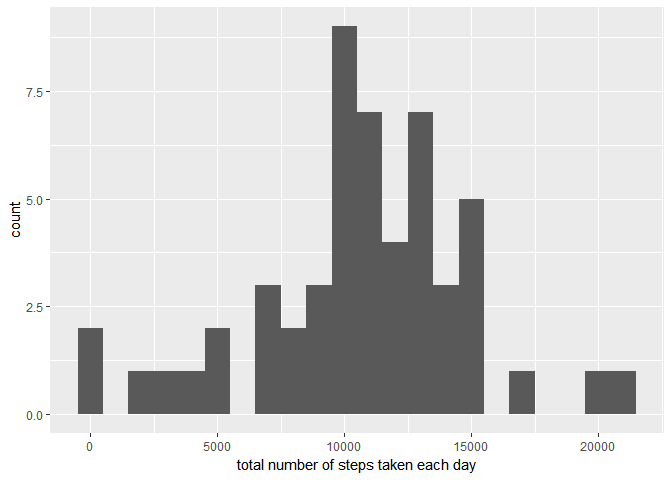
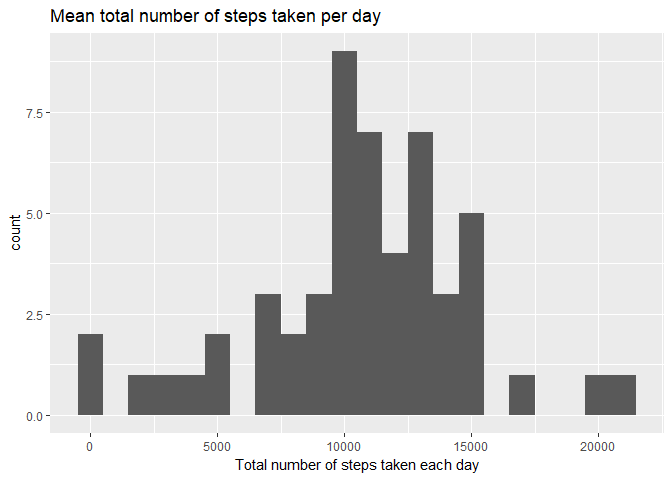
Final version - minor bug fixed...
Final version, with missing ```{R} block...

diff --git a/PA1_template.html b/PA1_template.html
@@ -122,6 +122,8 @@ $(document).ready(function () {
 </div>
 
 
+<div id="michel-racine" class="section level1">
+<h1>Michel Racine</h1>
 <pre class="r"><code>library(&quot;ggplot2&quot;)
 library(dplyr)</code></pre>
 <pre><code>## 
@@ -132,51 +134,79 @@ library(dplyr)</code></pre>
 <pre><code>## The following objects are masked from 'package:base':
 ## 
 ##     intersect, setdiff, setequal, union</code></pre>
-<pre class="r"><code>setwd(&quot;/Users/Michel/Dropbox/Coursera/Data Science - John Hopkin's/Reproducible Research/week2/Course Project 1&quot;)</code></pre>
+<pre class="r"><code>library(lubridate)</code></pre>
+<pre><code>## 
+## Attaching package: 'lubridate'</code></pre>
+<pre><code>## The following object is masked from 'package:base':
+## 
+##     date</code></pre>
+<pre class="r"><code>library(chron)</code></pre>
+<pre><code>## Warning: package 'chron' was built under R version 3.4.4</code></pre>
+<pre><code>## 
+## Attaching package: 'chron'</code></pre>
+<pre><code>## The following objects are masked from 'package:lubridate':
+## 
+##     days, hours, minutes, seconds, years</code></pre>
+<pre class="r"><code>library(lattice)</code></pre>
 <div id="loading-and-preprocessing-the-data" class="section level2">
 <h2>Loading and preprocessing the data</h2>
 <div id="we-want-to-ignore-na-values" class="section level3">
 <h3>We want to ignore NA values</h3>
-<pre class="r"><code>activities &lt;- read.csv(&quot;activity.csv&quot;)
-filtered_activities &lt;- na.omit(activities)</code></pre>
+<pre class="r"><code>data &lt;- read.csv(&quot;activity.csv&quot;)
+filtered_data &lt;- na.omit(data)</code></pre>
 </div>
 </div>
 <div id="what-is-mean-total-number-of-steps-taken-per-day" class="section level2">
 <h2>What is mean total number of steps taken per day?</h2>
-<pre class="r"><code>total_steps_per_day &lt;- aggregate(steps ~ date, activities, sum)
+<pre class="r"><code>total_steps_per_day &lt;- aggregate(steps ~ date, data, sum)
 
 
 mean_steps &lt;- mean(total_steps_per_day$steps)
 median_steps &lt;- median(total_steps_per_day$steps)
 
-qplot(total_steps_per_day$steps, binwidth=1000, xlab=&quot;total number of steps taken each day&quot;)</code></pre>
[1 lines of base64/hex data omitted]
+qplot(total_steps_per_day$steps, binwidth=1000, xlab=&quot;Total number of steps taken each day&quot;, main=&quot;Mean total number of steps taken per day&quot;)</code></pre>
[1 lines of base64/hex data omitted]
 <p>The mean of the of the total number of steps is 10766.<br />
 The median of the of the total number of steps is 10765.</p>
 </div>
 <div id="what-is-the-average-daily-activity-pattern" class="section level2">
 <h2>What is the average daily activity pattern?</h2>
-<pre class="r"><code>average_steps_per_interval &lt;- aggregate(steps ~ interval, activities, mean)
+<pre class="r"><code>steps_per_interval &lt;- aggregate(steps ~ interval, data, mean)
 
 
-plot(average_steps_per_interval$interval, average_steps_per_interval$steps, type=&quot;l&quot;, xlab=&quot;Interval&quot;, 
+plot(steps_per_interval$interval, steps_per_interval$steps, type=&quot;l&quot;, xlab=&quot;Interval&quot;, 
      ylab=&quot;Average number of steps&quot;)</code></pre>
[1 lines of base64/hex data omitted]
-<pre class="r"><code>Max_steps &lt;- max(average_steps_per_interval$steps)
-Max_interval &lt;- average_steps_per_interval[average_steps_per_interval$steps == Max_steps,]$interval</code></pre>
[1 lines of base64/hex data omitted]
+<pre class="r"><code>Max_steps &lt;- max(steps_per_interval$steps)
+Max_interval &lt;- steps_per_interval[steps_per_interval$steps == Max_steps,]$interval</code></pre>
 <p>The interval 835 on average contains the maximum number of steps, which is 206.</p>
 </div>
 <div id="replace-missing-values-by-using-the-mean-for-the-5-minute-interval" class="section level2">
 <h2>Replace missing values by using the mean for the 5-minute interval</h2>
-<div id="we-will-re-use-the-average_steps_per_interval-data-frame" class="section level3">
-<h3>We will re-use the average_steps_per_interval data frame…</h3>
-<pre class="r"><code>missing_values = sum(!complete.cases(activities))
+<div id="we-will-re-use-the-steps_per_interval-data-frame" class="section level3">
+<h3>We will re-use the steps_per_interval data frame…</h3>
+<pre class="r"><code>missing_values = sum(!complete.cases(data))
 
-activities2 &lt;- transform(activities, steps = ifelse(is.na(activities$steps), average_steps_per_interval$steps[match(activities$interval, average_steps_per_interval$interval)], activities$steps))</code></pre>
+data.i &lt;- transform(data, steps = ifelse(is.na(data$steps), steps_per_interval$steps[match(data$interval, steps_per_interval$interval)], data$steps))
+
+total_steps_per_day.i &lt;- aggregate(steps ~ date, data.i, sum)
+
+mean_steps.i &lt;- mean(total_steps_per_day.i$steps)
+median_steps.i &lt;- median(total_steps_per_day.i$steps)
+
+qplot(total_steps_per_day.i$steps, binwidth=1000, xlab=&quot;Number of steps per day&quot;, main=&quot;Total number of steps taken each day - imputing missing values with mean of 5-minute intervals&quot;)</code></pre>
[1 lines of base64/hex data omitted]
 </div>
 </div>
 <div id="are-there-differences-in-activity-patterns-between-weekdays-and-weekends" class="section level2">
 <h2>Are there differences in activity patterns between weekdays and weekends?</h2>
+<pre class="r"><code>data.i$weekday &lt;- ifelse(is.weekend(data.i$date), &quot;Weekend&quot;, &quot;Weekday&quot;)
+
+steps_per_interval.i &lt;- aggregate(steps ~ interval + weekday, data.i, mean)
+
+xyplot(steps_per_interval.i$steps ~ steps_per_interval.i$interval|steps_per_interval.i$weekday, main=&quot;Average Steps per Day by Interval&quot;,xlab=&quot;Interval&quot;, ylab=&quot;Steps&quot;,layout=c(1,2), type=&quot;l&quot;)</code></pre>
[1 lines of base64/hex data omitted]
+</div>
 </div>
 
 

diff --git a/PA1_template.md b/PA1_template.md
@@ -4,7 +4,7 @@ output:
   html_document:
     keep_md: true
 ---
-
+# Michel Racine
 
 ```r
 library("ggplot2")
@@ -29,27 +29,61 @@ library(dplyr)
 ```
 
 ```r
-setwd("/Users/Michel/Dropbox/Coursera/Data Science - John Hopkin's/Reproducible Research/week2/Course Project 1")
+library(lubridate)
+```
+
+```
+## 
+## Attaching package: 'lubridate'
+```
+
+```
+## The following object is masked from 'package:base':
+## 
+##     date
+```
+
+```r
+library(chron)
+```
+
+```
+## Warning: package 'chron' was built under R version 3.4.4
+```
+
+```
+## 
+## Attaching package: 'chron'
+```
+
+```
+## The following objects are masked from 'package:lubridate':
+## 
+##     days, hours, minutes, seconds, years
+```
+
+```r
+library(lattice)
 ```
 
 ## Loading and preprocessing the data
 ### We want to ignore NA values
 
 ```r
-activities <- read.csv("activity.csv")
-filtered_activities <- na.omit(activities)
+data <- read.csv("activity.csv")
+filtered_data <- na.omit(data)
 ```
 
 ## What is mean total number of steps taken per day?
 
 ```r
-total_steps_per_day <- aggregate(steps ~ date, activities, sum)
+total_steps_per_day <- aggregate(steps ~ date, data, sum)
 
 
 mean_steps <- mean(total_steps_per_day$steps)
 median_steps <- median(total_steps_per_day$steps)
 
-qplot(total_steps_per_day$steps, binwidth=1000, xlab="total number of steps taken each day")
+qplot(total_steps_per_day$steps, binwidth=1000, xlab="Total number of steps taken each day", main="Mean total number of steps taken per day")
 ```
 
 ![](PA1_template_files/figure-html/unnamed-chunk-3-1.png)<!-- -->
@@ -61,28 +95,48 @@ The median of the of the total number of steps is 10765.
 ## What is the average daily activity pattern?
 
 ```r
-average_steps_per_interval <- aggregate(steps ~ interval, activities, mean)
+steps_per_interval <- aggregate(steps ~ interval, data, mean)
 
 
-plot(average_steps_per_interval$interval, average_steps_per_interval$steps, type="l", xlab="Interval", 
+plot(steps_per_interval$interval, steps_per_interval$steps, type="l", xlab="Interval", 
      ylab="Average number of steps")
 ```
 
 ![](PA1_template_files/figure-html/unnamed-chunk-4-1.png)<!-- -->
 
 ```r
-Max_steps <- max(average_steps_per_interval$steps)
-Max_interval <- average_steps_per_interval[average_steps_per_interval$steps == Max_steps,]$interval
+Max_steps <- max(steps_per_interval$steps)
+Max_interval <- steps_per_interval[steps_per_interval$steps == Max_steps,]$interval
 ```
 The interval  835 on average contains the maximum number of steps, which is  206.
 
 ## Replace missing values by using the mean for the 5-minute interval
-### We will re-use the average_steps_per_interval data frame...
+### We will re-use the steps_per_interval data frame...
 
 ```r
-missing_values = sum(!complete.cases(activities))
+missing_values = sum(!complete.cases(data))
 
-activities2 <- transform(activities, steps = ifelse(is.na(activities$steps), average_steps_per_interval$steps[match(activities$interval, average_steps_per_interval$interval)], activities$steps))
+data.i <- transform(data, steps = ifelse(is.na(data$steps), steps_per_interval$steps[match(data$interval, steps_per_interval$interval)], data$steps))
+
+total_steps_per_day.i <- aggregate(steps ~ date, data.i, sum)
+
+mean_steps.i <- mean(total_steps_per_day.i$steps)
+median_steps.i <- median(total_steps_per_day.i$steps)
+
+qplot(total_steps_per_day.i$steps, binwidth=1000, xlab="Number of steps per day", main="Total number of steps taken each day - imputing missing values with mean of 5-minute intervals")
 ```
 
+![](PA1_template_files/figure-html/unnamed-chunk-5-1.png)<!-- -->
+
 ## Are there differences in activity patterns between weekdays and weekends?
+
+```r
+data.i$weekday <- ifelse(is.weekend(data.i$date), "Weekend", "Weekday")
+
+steps_per_interval.i <- aggregate(steps ~ interval + weekday, data.i, mean)
+
+xyplot(steps_per_interval.i$steps ~ steps_per_interval.i$interval|steps_per_interval.i$weekday, main="Average Steps per Day by Interval",xlab="Interval", ylab="Steps",layout=c(1,2), type="l")
+```
+
+![](PA1_template_files/figure-html/unnamed-chunk-6-1.png)<!-- -->
+
